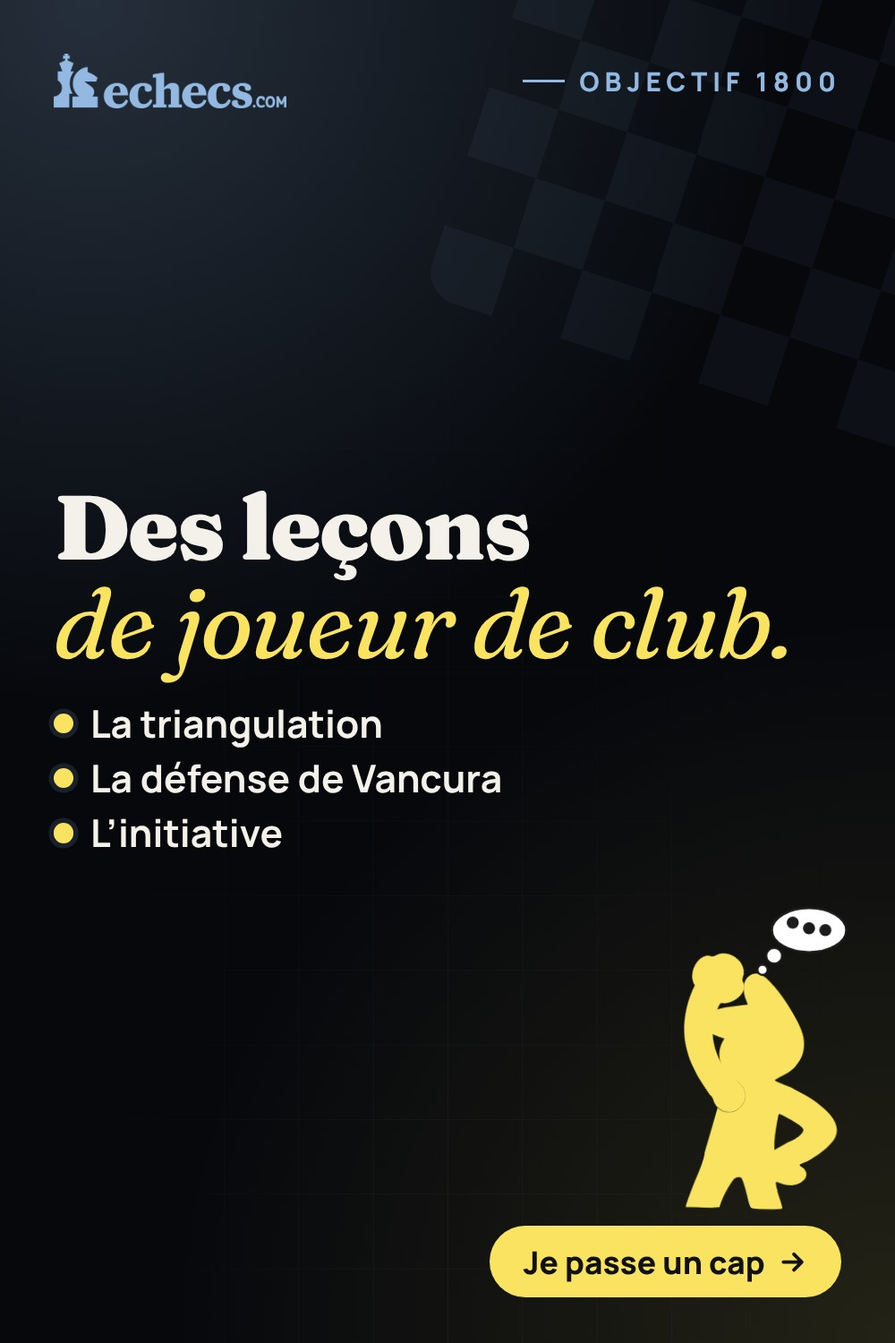
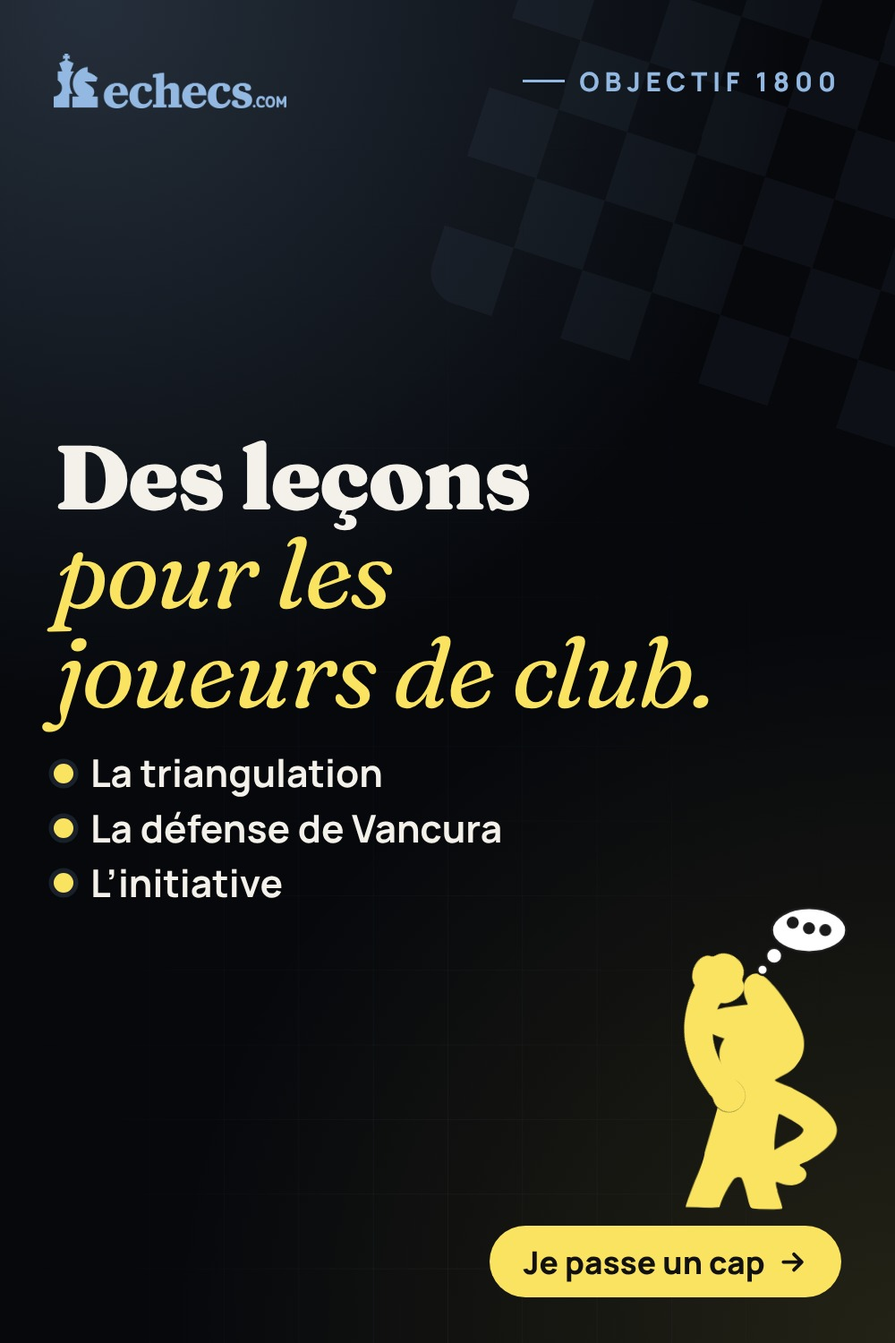
Campagne 2000 : avis de Samuel sur les encarts (c02, c03, c05, c07, c08) et les posts (91, 92, 94, 97), légendes alignées ; niveau du problème 94 corrigé (Objectif 1600)
Claude-Session: https://claude.ai/code/session_01BbhUUMNCTREacxpKGo9DaP

Changed region(s): [[0.031, 0.3067, 0.868, 0.6747]]

diff --git a/video/validation/campagne-2000.html b/video/validation/campagne-2000.html
@@ -185,20 +185,20 @@ const C = [
   // ---- Joueurs de club et confirmés : l'Académie n'est pas que pour débuter
   { id: "c01", v: 2, aud: "c", nom: "Jusqu’à 2000 et plus", angle: "L’accroche de la campagne : l’Académie accompagne aussi les joueurs confirmés, jusqu’en haut de l’escalier.", fond: "nuit", pose: "drapeau", scene: { type: "escalier", pose: "drapeau" }, prix: "mois",
     t: ["On t’emmène", "jusqu’à 2000 et plus."], court: "Jusqu’à 2000 et plus", sub: "Objectif 1600, 1800, 2000 : le parcours continue.", cta: "Je passe un cap", ctas: "Go !" },
-  { id: "c02", v: 2, aud: "c", nom: "Joueur de club ?", angle: "Le sacrifice du Fou en h7 (leçon Objectif 1600) : une position de joueur de club, pas de débutant.", fond: "framboise", pose: "reflexion", scene: { type: "board", pos: "fouh7" }, prix: "mois",
-    t: ["Joueur de club ?", "L’Académie est pour toi."], court: "Joueur de club ?", sub: "Attaques, sacrifices, plans : des leçons au niveau des tournois.", cta: "Je m'abonne" },
-  { id: "c03", v: 2, aud: "c", nom: "Le cap des 2000", angle: "La mascotte au bout d’une courbe qui franchit les 2000.", fond: "violet", pose: "hourra", scene: { type: "elo", pose: "hourra", label: "Elo <span style=\"color:#fae361\">2000 +</span>" }, prix: "mois",
-    t: ["Fais sauter", "le cap des 2000."], court: "Passe les 2000", sub: "Les modules Objectif 1800 et 2000 et plus, avec leurs exercices.", cta: "Je passe un cap", ctas: "Go !" },
+  { id: "c02", v: 3, aud: "c", nom: "Joueur de club ?", angle: "Le sacrifice du Fou en h7 (leçon Objectif 1600) : une position de joueur de club, pas de débutant.", fond: "framboise", pose: "reflexion", scene: { type: "board", pos: "fouh7" }, prix: "mois",
+    t: ["Joueur de club ?", "L’Académie est pour toi."], court: "Joueur de club ?", sub: "Une véritable méthode pour t’accompagner dans ta progression !", cta: "Je m'abonne" },
+  { id: "c03", v: 3, aud: "c", nom: "Le cap des 2000", angle: "La mascotte au bout d’une courbe qui franchit les 2000.", fond: "violet", pose: "hourra", scene: { type: "elo", pose: "hourra", label: "Elo <span style=\"color:#fae361\">2000 +</span>" }, prix: "mois",
+    t: ["Fais sauter", "le cap des 2000."], court: "Passe les 2000", sub: "Découvre nos modules Objectif 1800 et 2000 et plus !", cta: "Je passe un cap", ctas: "Go !" },
   { id: "c04", v: 2, aud: "c", nom: "Avec des Grands Maîtres", angle: "Les Grands Maîtres en direct, pour les joueurs qui préparent leurs tournois.", fond: "bleu", pose: "pancarte", scene: { type: "coach" }, prix: "mois",
     t: ["Prépare tes tournois", "avec des Grands Maîtres."], court: "Masterclasses de GMI", sub: "Gata Kamsky, Fabien Libiszewski et nos coachs, en direct.", cta: "Je m'abonne" },
-  { id: "c05", v: 1, aud: "c", nom: "Pas seulement pour débuter", angle: "Casser l’idée d’une Académie pour débutants, avec les séries vidéo des maîtres.", fond: "corail", pose: "idee", scene: { type: "videos" }, prix: "mois",
-    t: ["Pas seulement", "pour débuter."], court: "Pas que pour débuter", sub: "Ouvertures, plans, finales : de quoi progresser jusqu’à 2000 et plus.", cta: "Découvrir" },
+  { id: "c05", v: 2, aud: "c", nom: "Pas seulement pour débuter", angle: "Casser l’idée d’une Académie pour débutants, avec les séries vidéo des maîtres.", fond: "corail", pose: "idee", scene: { type: "videos" }, prix: "mois",
+    t: ["Pas seulement", "pour débuter."], court: "Pas que pour débuter", sub: "Notre Académie te permet de progresser jusqu’à 2000+ !", cta: "Découvrir" },
   { id: "c06", v: 4, aud: "c", nom: "Ton dernier tournoi, décortiqué", angle: "Les parties du joueur de club, importées en PGN et analysées : là où on progresse vraiment.", fond: "nuit", pose: "loupe", scene: { type: "parties" }, prix: "mois",
     t: ["Ton dernier tournoi,", "décortiqué coup par coup."], court: "Analyse tes parties", sub: "Importe ton PGN, analyse tes parties de tournoi et partage-les avec les membres.", cta: "Je passe un cap", ctas: "Go !" },
-  { id: "c07", v: 3, aud: "c", nom: "Tu plafonnes à 1700 ?", angle: "Appuyer là où ça fait mal : le joueur de club bloqué depuis des mois, puis la courbe qui repart vers 2000.", fond: "framboise", pose: "menton", scene: { type: "elo", plat: true, pose: "hourra", label: "1700 → <span style=\"color:#fae361\">2000 +</span>" }, prix: "mois",
-    t: ["Tu plafonnes à 1700", "depuis des mois ?"], court: "Bloqué à 1700 ?", sub: "Leçons Objectif 1800, masterclasses de Grands Maîtres : on débloque ça.", cta: "Je passe un cap", ctas: "Go !" },
-  { id: "c08", v: 2, aud: "c", nom: "Objectif 1800", angle: "Les vraies leçons de niveau 1800 de l’Académie, cochées une à une.", fond: "nuit", pose: "reflexion", scene: { type: "lecons" }, prix: "mois",
-    t: ["Ton prochain palier :", "l’Objectif 1800."], court: "Objectif 1800", sub: "Des leçons faites pour les joueurs de club, avec exercices et quiz.", cta: "Je passe un cap", ctas: "Go !" },
+  { id: "c07", v: 4, aud: "c", nom: "Tu plafonnes à 1700 ?", angle: "Appuyer là où ça fait mal : le joueur de club bloqué depuis des mois, puis la courbe qui repart vers 2000.", fond: "framboise", pose: "menton", scene: { type: "elo", plat: true, pose: "hourra", label: "1700 → <span style=\"color:#fae361\">2000 +</span>" }, prix: "mois",
+    t: ["Tu plafonnes à 1700", "depuis des mois ?"], court: "Bloqué à 1700 ?", sub: "Leçons Objectif 1800, masterclasses de Grands Maîtres : débloque tout !", cta: "Je passe un cap", ctas: "Go !" },
+  { id: "c08", v: 3, aud: "c", nom: "Objectif 1800", angle: "Les vraies leçons de niveau 1800 de l’Académie, cochées une à une.", fond: "nuit", pose: "reflexion", scene: { type: "lecons" }, prix: "mois",
+    t: ["Ton prochain palier :", "l’Objectif 1800."], court: "Objectif 1800", sub: "Des leçons pour les joueurs qui veulent franchir un cap, avec exercices et quiz.", cta: "Je passe un cap", ctas: "Go !" },
 ];
 const EXEMPLES = { "[PRENOM]": "Léa", "[NB_PUZZLES_REUSSIS]": "37" };
 const ex = s => String(s).replace(/\[[A-Z_]+\]/g, v => EXEMPLES[v] || v);
@@ -462,7 +462,7 @@ function fit(scope) {
 }
 
 /* ---------- Fiches ---------- */
-const MEDIA = [{"id": "p90", "v": 1, "kind": "media", "aud": "p", "nom": "2000 et plus : on t’y emmène", "angle": "Le chiffre de la campagne, avec la mascotte et son drapeau.", "legende": "2000 et plus : on t'y emmène. ♟ L'Académie, ce n'est pas que pour apprendre les règles : les parcours Objectif 1600, 1800 et 2000 et plus sont faits pour les joueurs de club. 👉 echecs.com/academie", "medias": [{"label": "Carré 1080×1080", "src": "campagne-2000/media/90-jusqu-a-2000-carre-1080x1080.jpg", "type": "image"}, {"label": "Portrait 4:5", "src": "campagne-2000/media/90-jusqu-a-2000-portrait-1080x1350.jpg", "type": "image"}, {"label": "Story 9:16", "src": "campagne-2000/media/90-jusqu-a-2000-story-1080x1920.jpg", "type": "image"}, {"label": "X 1600×900", "src": "campagne-2000/media/90-jusqu-a-2000-x-1600x900.jpg", "type": "image"}, {"label": "Lien partagé 1200×630", "src": "campagne-2000/media/90-jusqu-a-2000-lien-1200x630.jpg", "type": "image"}, {"label": "Pinterest 1000×1500", "src": "campagne-2000/media/90-jusqu-a-2000-pinterest-1000x1500.jpg", "type": "image"}]}, {"id": "p91", "v": 2, "kind": "media", "aud": "p", "nom": "Pas seulement pour débuter", "angle": "Casser l’idée d’une Académie pour débutants, avec une masterclass en image.", "legende": "Tu crois que l'Académie, c'est pour les débutants ? 🤔 Ouvertures, plans de milieu de jeu, finales techniques, masterclasses de Grands Maîtres : de quoi progresser jusqu'à 2000 et plus.", "medias": [{"label": "Carré 1080×1080", "src": "campagne-2000/media/91-pas-que-pour-debuter-carre-1080x1080.jpg", "type": "image"}, {"label": "Portrait 4:5", "src": "campagne-2000/media/91-pas-que-pour-debuter-portrait-1080x1350.jpg", "type": "image"}, {"label": "Story 9:16", "src": "campagne-2000/media/91-pas-que-pour-debuter-story-1080x1920.jpg", "type": "image"}, {"label": "X 1600×900", "src": "campagne-2000/media/91-pas-que-pour-debuter-x-1600x900.jpg", "type": "image"}, {"label": "Lien partagé 1200×630", "src": "campagne-2000/media/91-pas-que-pour-debuter-lien-1200x630.jpg", "type": "image"}, {"label": "Pinterest 1000×1500", "src": "campagne-2000/media/91-pas-que-pour-debuter-pinterest-1000x1500.jpg", "type": "image"}]}, {"id": "p92", "v": 2, "kind": "media", "aud": "p", "nom": "Joueur de club ? L’Académie aussi", "angle": "Parler directement aux joueurs de club, avec les exercices de niveau 1600.", "legende": "Joueur de club ? L'Académie aussi. 🏆 Des leçons au niveau des tournois, des exercices classés jusqu'au niveau 2000 et plus, et un tournoi en ligne chaque semaine pour mettre tout ça en pratique.", "medias": [{"label": "Carré 1080×1080", "src": "campagne-2000/media/92-joueur-de-club-carre-1080x1080.jpg", "type": "image"}, {"label": "Portrait 4:5", "src": "campagne-2000/media/92-joueur-de-club-portrait-1080x1350.jpg", "type": "image"}, {"label": "Story 9:16", "src": "campagne-2000/media/92-joueur-de-club-story-1080x1920.jpg", "type": "image"}, {"label": "X 1600×900", "src": "campagne-2000/media/92-joueur-de-club-x-1600x900.jpg", "type": "image"}, {"label": "Lien partagé 1200×630", "src": "campagne-2000/media/92-joueur-de-club-lien-1200x630.jpg", "type": "image"}, {"label": "Pinterest 1000×1500", "src": "campagne-2000/media/92-joueur-de-club-pinterest-1000x1500.jpg", "type": "image"}]}, {"id": "p93", "v": 2, "kind": "media", "aud": "p", "nom": "Fais sauter le cap des 2000", "angle": "La mascotte qui célèbre le cap.", "legende": "Fais sauter le cap des 2000. 📈 Chaque module validé te rapproche du suivant, et ta courbe Elo le montre.", "medias": [{"label": "Carré 1080×1080", "src": "campagne-2000/media/93-cap-des-2000-carre-1080x1080.jpg", "type": "image"}, {"label": "Portrait 4:5", "src": "campagne-2000/media/93-cap-des-2000-portrait-1080x1350.jpg", "type": "image"}, {"label": "Story 9:16", "src": "campagne-2000/media/93-cap-des-2000-story-1080x1920.jpg", "type": "image"}, {"label": "X 1600×900", "src": "campagne-2000/media/93-cap-des-2000-x-1600x900.jpg", "type": "image"}, {"label": "Lien partagé 1200×630", "src": "campagne-2000/media/93-cap-des-2000-lien-1200x630.jpg", "type": "image"}, {"label": "Pinterest 1000×1500", "src": "campagne-2000/media/93-cap-des-2000-pinterest-1000x1500.jpg", "type": "image"}]}, {"id": "p94", "v": 2, "kind": "media", "aud": "p", "nom": "Problème : les Blancs jouent et gagnent", "angle": "Un problème de niveau 1800 (le sacrifice grec), pour faire réagir en commentaire.", "legende": "Objectif 1600 : les Blancs jouent et gagnent. Tu vois le coup ? Réponse en commentaire 👇", "medias": [{"label": "Carré 1080×1080", "src": "campagne-2000/media/94-probleme-fou-h7-carre-1080x1080.jpg", "type": "image"}, {"label": "Portrait 4:5", "src": "campagne-2000/media/94-probleme-fou-h7-portrait-1080x1350.jpg", "type": "image"}, {"label": "Story 9:16", "src": "campagne-2000/media/94-probleme-fou-h7-story-1080x1920.jpg", "type": "image"}, {"label": "X 1600×900", "src": "campagne-2000/media/94-probleme-fou-h7-x-1600x900.jpg", "type": "image"}, {"label": "Lien partagé 1200×630", "src": "campagne-2000/media/94-probleme-fou-h7-lien-1200x630.jpg", "type": "image"}, {"label": "Pinterest 1000×1500", "src": "campagne-2000/media/94-probleme-fou-h7-pinterest-1000x1500.jpg", "type": "image"}]}, {"id": "p95", "v": 1, "kind": "media", "aud": "p", "nom": "La solution : le sacrifice grec", "angle": "À publier le lendemain, en post ou en story.", "legende": "Solution : 1.Fxh7+ ! Rxh7 2.Cg5+ et la Dame arrive en h5. C'est le sacrifice grec, un grand classique des attaques sur le Roque. On le travaille dans l'Académie, avec beaucoup d'autres.", "medias": [{"label": "Carré 1080×1080", "src": "campagne-2000/media/95-solution-fou-h7-carre-1080x1080.jpg", "type": "image"}, {"label": "Portrait 4:5", "src": "campagne-2000/media/95-solution-fou-h7-portrait-1080x1350.jpg", "type": "image"}, {"label": "Story 9:16", "src": "campagne-2000/media/95-solution-fou-h7-story-1080x1920.jpg", "type": "image"}, {"label": "X 1600×900", "src": "campagne-2000/media/95-solution-fou-h7-x-1600x900.jpg", "type": "image"}, {"label": "Lien partagé 1200×630", "src": "campagne-2000/media/95-solution-fou-h7-lien-1200x630.jpg", "type": "image"}, {"label": "Pinterest 1000×1500", "src": "campagne-2000/media/95-solution-fou-h7-pinterest-1000x1500.jpg", "type": "image"}]}, {"id": "p96", "v": 3, "kind": "media", "aud": "p", "nom": "1700 depuis des mois ?", "angle": "Le post qui pique : il parle directement au joueur de club bloqué à son classement.", "legende": "1700 depuis des mois ? 😤 Leçons Objectif 1800, masterclasses de Grands Maîtres, exercices : on débloque ça ensemble. 👉 echecs.com/academie", "medias": [{"label": "Carré 1080×1080", "src": "campagne-2000/media/96-plafond-1700-carre-1080x1080.jpg", "type": "image"}, {"label": "Portrait 4:5", "src": "campagne-2000/media/96-plafond-1700-portrait-1080x1350.jpg", "type": "image"}, {"label": "Story 9:16", "src": "campagne-2000/media/96-plafond-1700-story-1080x1920.jpg", "type": "image"}, {"label": "X 1600×900", "src": "campagne-2000/media/96-plafond-1700-x-1600x900.jpg", "type": "image"}, {"label": "Lien partagé 1200×630", "src": "campagne-2000/media/96-plafond-1700-lien-1200x630.jpg", "type": "image"}, {"label": "Pinterest 1000×1500", "src": "campagne-2000/media/96-plafond-1700-pinterest-1000x1500.jpg", "type": "image"}]}, {"id": "p97", "v": 2, "kind": "media", "aud": "p", "nom": "Des leçons de joueur de club", "angle": "Les vraies leçons Objectif 1800 de l’Académie, pour montrer le niveau concret.", "legende": "Triangulation, défense de Vancura, initiative… L'Académie, ce sont aussi des leçons de joueur de club, niveau 1800, avec vidéos, exercices et quiz. 👉 echecs.com/academie", "medias": [{"label": "Carré 1080×1080", "src": "campagne-2000/media/97-lecons-1800-carre-1080x1080.jpg", "type": "image"}, {"label": "Portrait 4:5", "src": "campagne-2000/media/97-lecons-1800-portrait-1080x1350.jpg", "type": "image"}, {"label": "Story 9:16", "src": "campagne-2000/media/97-lecons-1800-story-1080x1920.jpg", "type": "image"}, {"label": "X 1600×900", "src": "campagne-2000/media/97-lecons-1800-x-1600x900.jpg", "type": "image"}, {"label": "Lien partagé 1200×630", "src": "campagne-2000/media/97-lecons-1800-lien-1200x630.jpg", "type": "image"}, {"label": "Pinterest 1000×1500", "src": "campagne-2000/media/97-lecons-1800-pinterest-1000x1500.jpg", "type": "image"}]}, {"id": "vid1", "v": 6, "kind": "media", "aud": "vid", "nom": "Tu plafonnes à 1700 ?", "angle": "33 s, sans voix ; en story, 4:5 et carré, le cadre reprend l’accroche en gros (« Bloqué à 1700 ? Vise les 2000 + »), pour les joueurs de 1600-1800 : « Tu plafonnes à 1700 depuis des mois ? » sur un Elo qui ne bouge plus, « Nous avons pensé à toi ! On t’emmène jusqu’à 2000 et plus. », le sacrifice du Fou en h7, six vraies leçons Objectif 1600 et 1800 cochées une à une (triangulation, Vancura, initiative…), les Grands Maîtres, le module Objectif 1800 validé et la courbe Elo qui passe la barre des 2000.", "legende": "Tu plafonnes à 1700 depuis des mois ? Triangulation, défense de Vancura, initiative, masterclasses de Grands Maîtres : on t'emmène jusqu'à 2000 et plus. 👉 echecs.com/academie", "medias": [{"label": "16:9 (YouTube, LinkedIn, X, site)", "src": "campagne-2000/media/jusqu-a-2000-16x9.mp4", "type": "video"}, {"label": "Story 9:16", "src": "campagne-2000/media/jusqu-a-2000-story-9x16.mp4", "type": "video"}, {"label": "Portrait 4:5", "src": "campagne-2000/media/jusqu-a-2000-feed-4x5.mp4", "type": "video"}, {"label": "Carré 1:1", "src": "campagne-2000/media/jusqu-a-2000-carre-1x1.mp4", "type": "video"}]}];
+const MEDIA = [{"id": "p90", "v": 1, "kind": "media", "aud": "p", "nom": "2000 et plus : on t’y emmène", "angle": "Le chiffre de la campagne, avec la mascotte et son drapeau.", "legende": "2000 et plus : on t'y emmène. ♟ L'Académie, ce n'est pas que pour apprendre les règles : les parcours Objectif 1600, 1800 et 2000 et plus sont faits pour les joueurs de club. 👉 echecs.com/academie", "medias": [{"label": "Carré 1080×1080", "src": "campagne-2000/media/90-jusqu-a-2000-carre-1080x1080.jpg", "type": "image"}, {"label": "Portrait 4:5", "src": "campagne-2000/media/90-jusqu-a-2000-portrait-1080x1350.jpg", "type": "image"}, {"label": "Story 9:16", "src": "campagne-2000/media/90-jusqu-a-2000-story-1080x1920.jpg", "type": "image"}, {"label": "X 1600×900", "src": "campagne-2000/media/90-jusqu-a-2000-x-1600x900.jpg", "type": "image"}, {"label": "Lien partagé 1200×630", "src": "campagne-2000/media/90-jusqu-a-2000-lien-1200x630.jpg", "type": "image"}, {"label": "Pinterest 1000×1500", "src": "campagne-2000/media/90-jusqu-a-2000-pinterest-1000x1500.jpg", "type": "image"}]}, {"id": "p91", "v": 3, "kind": "media", "aud": "p", "nom": "Pas seulement pour débuter", "angle": "Casser l’idée d’une Académie pour débutants, avec une masterclass en image.", "legende": "Tu crois que l'Académie, c'est pour les débutants ? 🤔 Ouvertures, plans de milieu de jeu, finales techniques, masterclasses de Grands Maîtres : nous t'accompagnons jusqu'à 2000+ !", "medias": [{"label": "Carré 1080×1080", "src": "campagne-2000/media/91-pas-que-pour-debuter-carre-1080x1080.jpg", "type": "image"}, {"label": "Portrait 4:5", "src": "campagne-2000/media/91-pas-que-pour-debuter-portrait-1080x1350.jpg", "type": "image"}, {"label": "Story 9:16", "src": "campagne-2000/media/91-pas-que-pour-debuter-story-1080x1920.jpg", "type": "image"}, {"label": "X 1600×900", "src": "campagne-2000/media/91-pas-que-pour-debuter-x-1600x900.jpg", "type": "image"}, {"label": "Lien partagé 1200×630", "src": "campagne-2000/media/91-pas-que-pour-debuter-lien-1200x630.jpg", "type": "image"}, {"label": "Pinterest 1000×1500", "src": "campagne-2000/media/91-pas-que-pour-debuter-pinterest-1000x1500.jpg", "type": "image"}]}, {"id": "p92", "v": 3, "kind": "media", "aud": "p", "nom": "Tu joues en club ? Rejoins l’Académie !", "angle": "Parler directement aux joueurs de club, avec les exercices de niveau 1600.", "legende": "Tu joues en club ? Rejoins l'Académie ! 🏆 Ton club en ligne ouvert 24 h sur 24 : des exercices classés jusqu'au niveau 2000 et plus, et un tournoi en ligne chaque semaine pour mettre tout ça en pratique.", "medias": [{"label": "Carré 1080×1080", "src": "campagne-2000/media/92-joueur-de-club-carre-1080x1080.jpg", "type": "image"}, {"label": "Portrait 4:5", "src": "campagne-2000/media/92-joueur-de-club-portrait-1080x1350.jpg", "type": "image"}, {"label": "Story 9:16", "src": "campagne-2000/media/92-joueur-de-club-story-1080x1920.jpg", "type": "image"}, {"label": "X 1600×900", "src": "campagne-2000/media/92-joueur-de-club-x-1600x900.jpg", "type": "image"}, {"label": "Lien partagé 1200×630", "src": "campagne-2000/media/92-joueur-de-club-lien-1200x630.jpg", "type": "image"}, {"label": "Pinterest 1000×1500", "src": "campagne-2000/media/92-joueur-de-club-pinterest-1000x1500.jpg", "type": "image"}]}, {"id": "p93", "v": 2, "kind": "media", "aud": "p", "nom": "Fais sauter le cap des 2000", "angle": "La mascotte qui célèbre le cap.", "legende": "Fais sauter le cap des 2000. 📈 Chaque module validé te rapproche du suivant, et ta courbe Elo le montre.", "medias": [{"label": "Carré 1080×1080", "src": "campagne-2000/media/93-cap-des-2000-carre-1080x1080.jpg", "type": "image"}, {"label": "Portrait 4:5", "src": "campagne-2000/media/93-cap-des-2000-portrait-1080x1350.jpg", "type": "image"}, {"label": "Story 9:16", "src": "campagne-2000/media/93-cap-des-2000-story-1080x1920.jpg", "type": "image"}, {"label": "X 1600×900", "src": "campagne-2000/media/93-cap-des-2000-x-1600x900.jpg", "type": "image"}, {"label": "Lien partagé 1200×630", "src": "campagne-2000/media/93-cap-des-2000-lien-1200x630.jpg", "type": "image"}, {"label": "Pinterest 1000×1500", "src": "campagne-2000/media/93-cap-des-2000-pinterest-1000x1500.jpg", "type": "image"}]}, {"id": "p94", "v": 3, "kind": "media", "aud": "p", "nom": "Problème : les Blancs jouent et gagnent", "angle": "Un problème de niveau Objectif 1600 (le sacrifice grec), pour faire réagir en commentaire.", "legende": "Objectif 1600 : les Blancs jouent et gagnent. Tu vois le coup ? Donne ta réponse en commentaire 👇", "medias": [{"label": "Carré 1080×1080", "src": "campagne-2000/media/94-probleme-fou-h7-carre-1080x1080.jpg", "type": "image"}, {"label": "Portrait 4:5", "src": "campagne-2000/media/94-probleme-fou-h7-portrait-1080x1350.jpg", "type": "image"}, {"label": "Story 9:16", "src": "campagne-2000/media/94-probleme-fou-h7-story-1080x1920.jpg", "type": "image"}, {"label": "X 1600×900", "src": "campagne-2000/media/94-probleme-fou-h7-x-1600x900.jpg", "type": "image"}, {"label": "Lien partagé 1200×630", "src": "campagne-2000/media/94-probleme-fou-h7-lien-1200x630.jpg", "type": "image"}, {"label": "Pinterest 1000×1500", "src": "campagne-2000/media/94-probleme-fou-h7-pinterest-1000x1500.jpg", "type": "image"}]}, {"id": "p95", "v": 1, "kind": "media", "aud": "p", "nom": "La solution : le sacrifice grec", "angle": "À publier le lendemain, en post ou en story.", "legende": "Solution : 1.Fxh7+ ! Rxh7 2.Cg5+ et la Dame arrive en h5. C'est le sacrifice grec, un grand classique des attaques sur le Roque. On le travaille dans l'Académie, avec beaucoup d'autres.", "medias": [{"label": "Carré 1080×1080", "src": "campagne-2000/media/95-solution-fou-h7-carre-1080x1080.jpg", "type": "image"}, {"label": "Portrait 4:5", "src": "campagne-2000/media/95-solution-fou-h7-portrait-1080x1350.jpg", "type": "image"}, {"label": "Story 9:16", "src": "campagne-2000/media/95-solution-fou-h7-story-1080x1920.jpg", "type": "image"}, {"label": "X 1600×900", "src": "campagne-2000/media/95-solution-fou-h7-x-1600x900.jpg", "type": "image"}, {"label": "Lien partagé 1200×630", "src": "campagne-2000/media/95-solution-fou-h7-lien-1200x630.jpg", "type": "image"}, {"label": "Pinterest 1000×1500", "src": "campagne-2000/media/95-solution-fou-h7-pinterest-1000x1500.jpg", "type": "image"}]}, {"id": "p96", "v": 3, "kind": "media", "aud": "p", "nom": "1700 depuis des mois ?", "angle": "Le post qui pique : il parle directement au joueur de club bloqué à son classement.", "legende": "1700 depuis des mois ? 😤 Leçons Objectif 1800, masterclasses de Grands Maîtres, exercices : on débloque ça ensemble. 👉 echecs.com/academie", "medias": [{"label": "Carré 1080×1080", "src": "campagne-2000/media/96-plafond-1700-carre-1080x1080.jpg", "type": "image"}, {"label": "Portrait 4:5", "src": "campagne-2000/media/96-plafond-1700-portrait-1080x1350.jpg", "type": "image"}, {"label": "Story 9:16", "src": "campagne-2000/media/96-plafond-1700-story-1080x1920.jpg", "type": "image"}, {"label": "X 1600×900", "src": "campagne-2000/media/96-plafond-1700-x-1600x900.jpg", "type": "image"}, {"label": "Lien partagé 1200×630", "src": "campagne-2000/media/96-plafond-1700-lien-1200x630.jpg", "type": "image"}, {"label": "Pinterest 1000×1500", "src": "campagne-2000/media/96-plafond-1700-pinterest-1000x1500.jpg", "type": "image"}]}, {"id": "p97", "v": 3, "kind": "media", "aud": "p", "nom": "Des leçons pour les joueurs de club", "angle": "Les vraies leçons Objectif 1800 de l’Académie, pour montrer le niveau concret.", "legende": "Triangulation, défense de Vancura, initiative… L'Académie, ce sont aussi des leçons pour les joueurs de club, niveau 1800, avec vidéos, exercices et quiz. 👉 echecs.com/academie", "medias": [{"label": "Carré 1080×1080", "src": "campagne-2000/media/97-lecons-1800-carre-1080x1080.jpg", "type": "image"}, {"label": "Portrait 4:5", "src": "campagne-2000/media/97-lecons-1800-portrait-1080x1350.jpg", "type": "image"}, {"label": "Story 9:16", "src": "campagne-2000/media/97-lecons-1800-story-1080x1920.jpg", "type": "image"}, {"label": "X 1600×900", "src": "campagne-2000/media/97-lecons-1800-x-1600x900.jpg", "type": "image"}, {"label": "Lien partagé 1200×630", "src": "campagne-2000/media/97-lecons-1800-lien-1200x630.jpg", "type": "image"}, {"label": "Pinterest 1000×1500", "src": "campagne-2000/media/97-lecons-1800-pinterest-1000x1500.jpg", "type": "image"}]}, {"id": "vid1", "v": 6, "kind": "media", "aud": "vid", "nom": "Tu plafonnes à 1700 ?", "angle": "33 s, sans voix ; en story, 4:5 et carré, le cadre reprend l’accroche en gros (« Bloqué à 1700 ? Vise les 2000 + »), pour les joueurs de 1600-1800 : « Tu plafonnes à 1700 depuis des mois ? » sur un Elo qui ne bouge plus, « Nous avons pensé à toi ! On t’emmène jusqu’à 2000 et plus. », le sacrifice du Fou en h7, six vraies leçons Objectif 1600 et 1800 cochées une à une (triangulation, Vancura, initiative…), les Grands Maîtres, le module Objectif 1800 validé et la courbe Elo qui passe la barre des 2000.", "legende": "Tu plafonnes à 1700 depuis des mois ? Triangulation, défense de Vancura, initiative, masterclasses de Grands Maîtres : on t'emmène jusqu'à 2000 et plus. 👉 echecs.com/academie", "medias": [{"label": "16:9 (YouTube, LinkedIn, X, site)", "src": "campagne-2000/media/jusqu-a-2000-16x9.mp4", "type": "video"}, {"label": "Story 9:16", "src": "campagne-2000/media/jusqu-a-2000-story-9x16.mp4", "type": "video"}, {"label": "Portrait 4:5", "src": "campagne-2000/media/jusqu-a-2000-feed-4x5.mp4", "type": "video"}, {"label": "Carré 1:1", "src": "campagne-2000/media/jusqu-a-2000-carre-1x1.mp4", "type": "video"}]}];
 const SECTIONS = [
   { id: "confirmes", titre: "1. Encarts pour le site", intro: "La campagne « Jusqu’à 2000 et plus » : faire comprendre que l’Académie n’est pas que pour apprendre les bases, mais aussi pour les amateurs confirmés et les joueurs de club. À afficher partout, en alternance avec les autres.", items: C.filter(c => c.aud === "c") },
   { id: "posts", titre: "2. Posts réseaux sociaux", intro: "Chaque visuel dans tous les formats des réseaux : carré, portrait 4:5, story 9:16, X, lien partagé et Pinterest. Les textes à publier sont sous chaque fiche.", items: MEDIA.filter(m => m.aud === "p") },

diff --git a/video/src/visuels-data.js b/video/src/visuels-data.js
@@ -111,14 +111,14 @@ window.VISUELS = [
 
   // ---- Campagne « Jusqu'à 2000 et plus » : l'Académie n'est pas que pour débuter
   { id: "90-jusqu-a-2000", tpl: "chiffre", theme: "nuit", k: "Joueurs de club", n: "2000<b>&#8239;</b>+", t: "On t'y emmène.", e: "Pas à pas.", s: "L'Académie, de l'initiation aux joueurs confirmés.", pose: "drapeau" },
-  { id: "91-pas-que-pour-debuter", tpl: "accroche", theme: "soleil", k: "Joueurs confirmés", t: "Pas seulement", e: "pour débuter.", s: "Ouvertures, plans, finales : jusqu'à 2000 et plus.", shot: "masterclasses", pose: "idee" },
-  { id: "92-joueur-de-club", tpl: "accroche", theme: "rose", k: "Joueurs de club", t: "Joueur de club ?", e: "L'Académie aussi.", s: "Des leçons au niveau des tournois.", shot: "exercices", pose: "reflexion" },
+  { id: "91-pas-que-pour-debuter", tpl: "accroche", theme: "soleil", k: "Joueurs confirmés", t: "Pas seulement", e: "pour débuter.", s: "Nous t'accompagnons jusqu'à 2000+ !", shot: "masterclasses", pose: "idee" },
+  { id: "92-joueur-de-club", tpl: "accroche", theme: "rose", k: "Joueurs de club", t: "Tu joues en club ?", e: "Rejoins l'Académie !", s: "Ton club en ligne ouvert 24 h sur 24 !", shot: "exercices", pose: "reflexion" },
   { id: "93-cap-des-2000", tpl: "mascotte", theme: "ciel", k: "Joueurs de club", t: "Fais sauter", e: "le cap des 2000 !", pose: "hourra" },
-  { id: "94-probleme-fou-h7", tpl: "puzzle", theme: "nuit", k: "Problème · Objectif 1600", t: "Les Blancs jouent", e: "et gagnent.", s: "Un grand classique des attaques sur le Roque. Ta réponse en commentaire.", pos: FOUH7, pose: "menton" },
+  { id: "94-probleme-fou-h7", tpl: "puzzle", theme: "nuit", k: "Problème · Objectif 1600", t: "Les Blancs jouent", e: "et gagnent.", s: "Un grand classique des attaques sur le Roque. Donne ta réponse en commentaire !", pos: FOUH7, pose: "menton" },
   { id: "95-solution-fou-h7", tpl: "puzzle", theme: "menthe", k: "La solution", t: "1.Fxh7+ !", e: "le sacrifice grec.", s: "Après 1…Rxh7 2.Cg5+, la Dame arrive en h5.", pos: FOUH7_OK, hl: ["d3", "h7"], arrow: ["d3", "h7"], pose: "hourra" },
 
   { id: "96-plafond-1700", btn: "Je passe un cap", tpl: "chiffre", theme: "rose", k: "Joueurs de club", n: "1700", t: "depuis des mois ?", e: "On débloque ça.", s: "Leçons Objectif 1800 et masterclasses de Grands Maîtres.", pose: "menton" },
-  { id: "97-lecons-1800", btn: "Je passe un cap", tpl: "event", theme: "nuit", k: "Objectif 1800", t: "Des leçons", e: "de joueur de club.", facts: ["La triangulation", "La défense de Vancura", "L’initiative"], pose: "reflexion" },
+  { id: "97-lecons-1800", btn: "Je passe un cap", tpl: "event", theme: "nuit", k: "Objectif 1800", t: "Des leçons", e: "pour les joueurs de club.", facts: ["La triangulation", "La défense de Vancura", "L’initiative"], pose: "reflexion" },
 
   // ---- Identité de profil (formats propres)
   { id: "id-avatar-nuit", tpl: "id-avatar", theme: "nuit", only: [["avatar-1080x1080", 1080, 1080, "Photo de profil (tous réseaux)"]] },

diff --git a/video/pack/TEXTES-PUBLICATIONS.md b/video/pack/TEXTES-PUBLICATIONS.md
@@ -90,26 +90,26 @@ Le message : l'Académie n'est pas réservée aux débutants. Elle accompagne au
 
 **Pas seulement pour débuter** (`91-pas-que-pour-debuter/`)
 > Tu crois que l'Académie, c'est pour les débutants ? 🤔
-> Ouvertures, plans de milieu de jeu, finales techniques, masterclasses de Grands Maîtres : de quoi progresser jusqu'à 2000 et plus.
+> Ouvertures, plans de milieu de jeu, finales techniques, masterclasses de Grands Maîtres : nous t'accompagnons jusqu'à 2000+ !
 
-**Joueur de club ?** (`92-joueur-de-club/`)
-> Joueur de club ? L'Académie aussi. 🏆
-> Des leçons au niveau des tournois, des exercices classés jusqu'au niveau 2000 et plus, et un tournoi en ligne chaque semaine pour mettre tout ça en pratique.
+**Tu joues en club ?** (`92-joueur-de-club/`)
+> Tu joues en club ? Rejoins l'Académie ! 🏆
+> Ton club en ligne ouvert 24 h sur 24 : des exercices classés jusqu'au niveau 2000 et plus, et un tournoi en ligne chaque semaine pour mettre tout ça en pratique.
 
 **Le cap des 2000** (`93-cap-des-2000/`)
 > Fais sauter le cap des 2000. 📈
 > Chaque module validé te rapproche du suivant, et ta courbe Elo le montre.
 
 **Problème, puis solution le lendemain** (`94-probleme-fou-h7/`, puis `95-solution-fou-h7/`)
-> Objectif 1600 : les Blancs jouent et gagnent. Tu vois le coup ? Réponse en commentaire 👇
+> Objectif 1600 : les Blancs jouent et gagnent. Tu vois le coup ? Donne ta réponse en commentaire 👇
 
 > Solution : 1.Fxh7+ ! Rxh7 2.Cg5+ et la Dame arrive en h5. C'est le sacrifice grec, un grand classique des attaques sur le Roque. On le travaille dans l'Académie, avec beaucoup d'autres.
 
 **1700 depuis des mois ?** (`96-plafond-1700/`)
 > 1700 depuis des mois ? 😤 Leçons Objectif 1800, masterclasses de Grands Maîtres, exercices : on débloque ça ensemble. 👉 echecs.com/academie
 
-**Des leçons de joueur de club** (`97-lecons-1800/`)
-> Triangulation, défense de Vancura, initiative… L'Académie, ce sont aussi des leçons de joueur de club, niveau 1800, avec vidéos, exercices et quiz. 👉 echecs.com/academie
+**Des leçons pour les joueurs de club** (`97-lecons-1800/`)
+> Triangulation, défense de Vancura, initiative… L'Académie, ce sont aussi des leçons pour les joueurs de club, niveau 1800, avec vidéos, exercices et quiz. 👉 echecs.com/academie
 
 **Vidéo** (`accroche-6`)
 > Tu plafonnes à 1700 depuis des mois ? Triangulation, défense de Vancura, initiative, masterclasses de Grands Maîtres : on t'emmène jusqu'à 2000 et plus. 👉 echecs.com/academie
